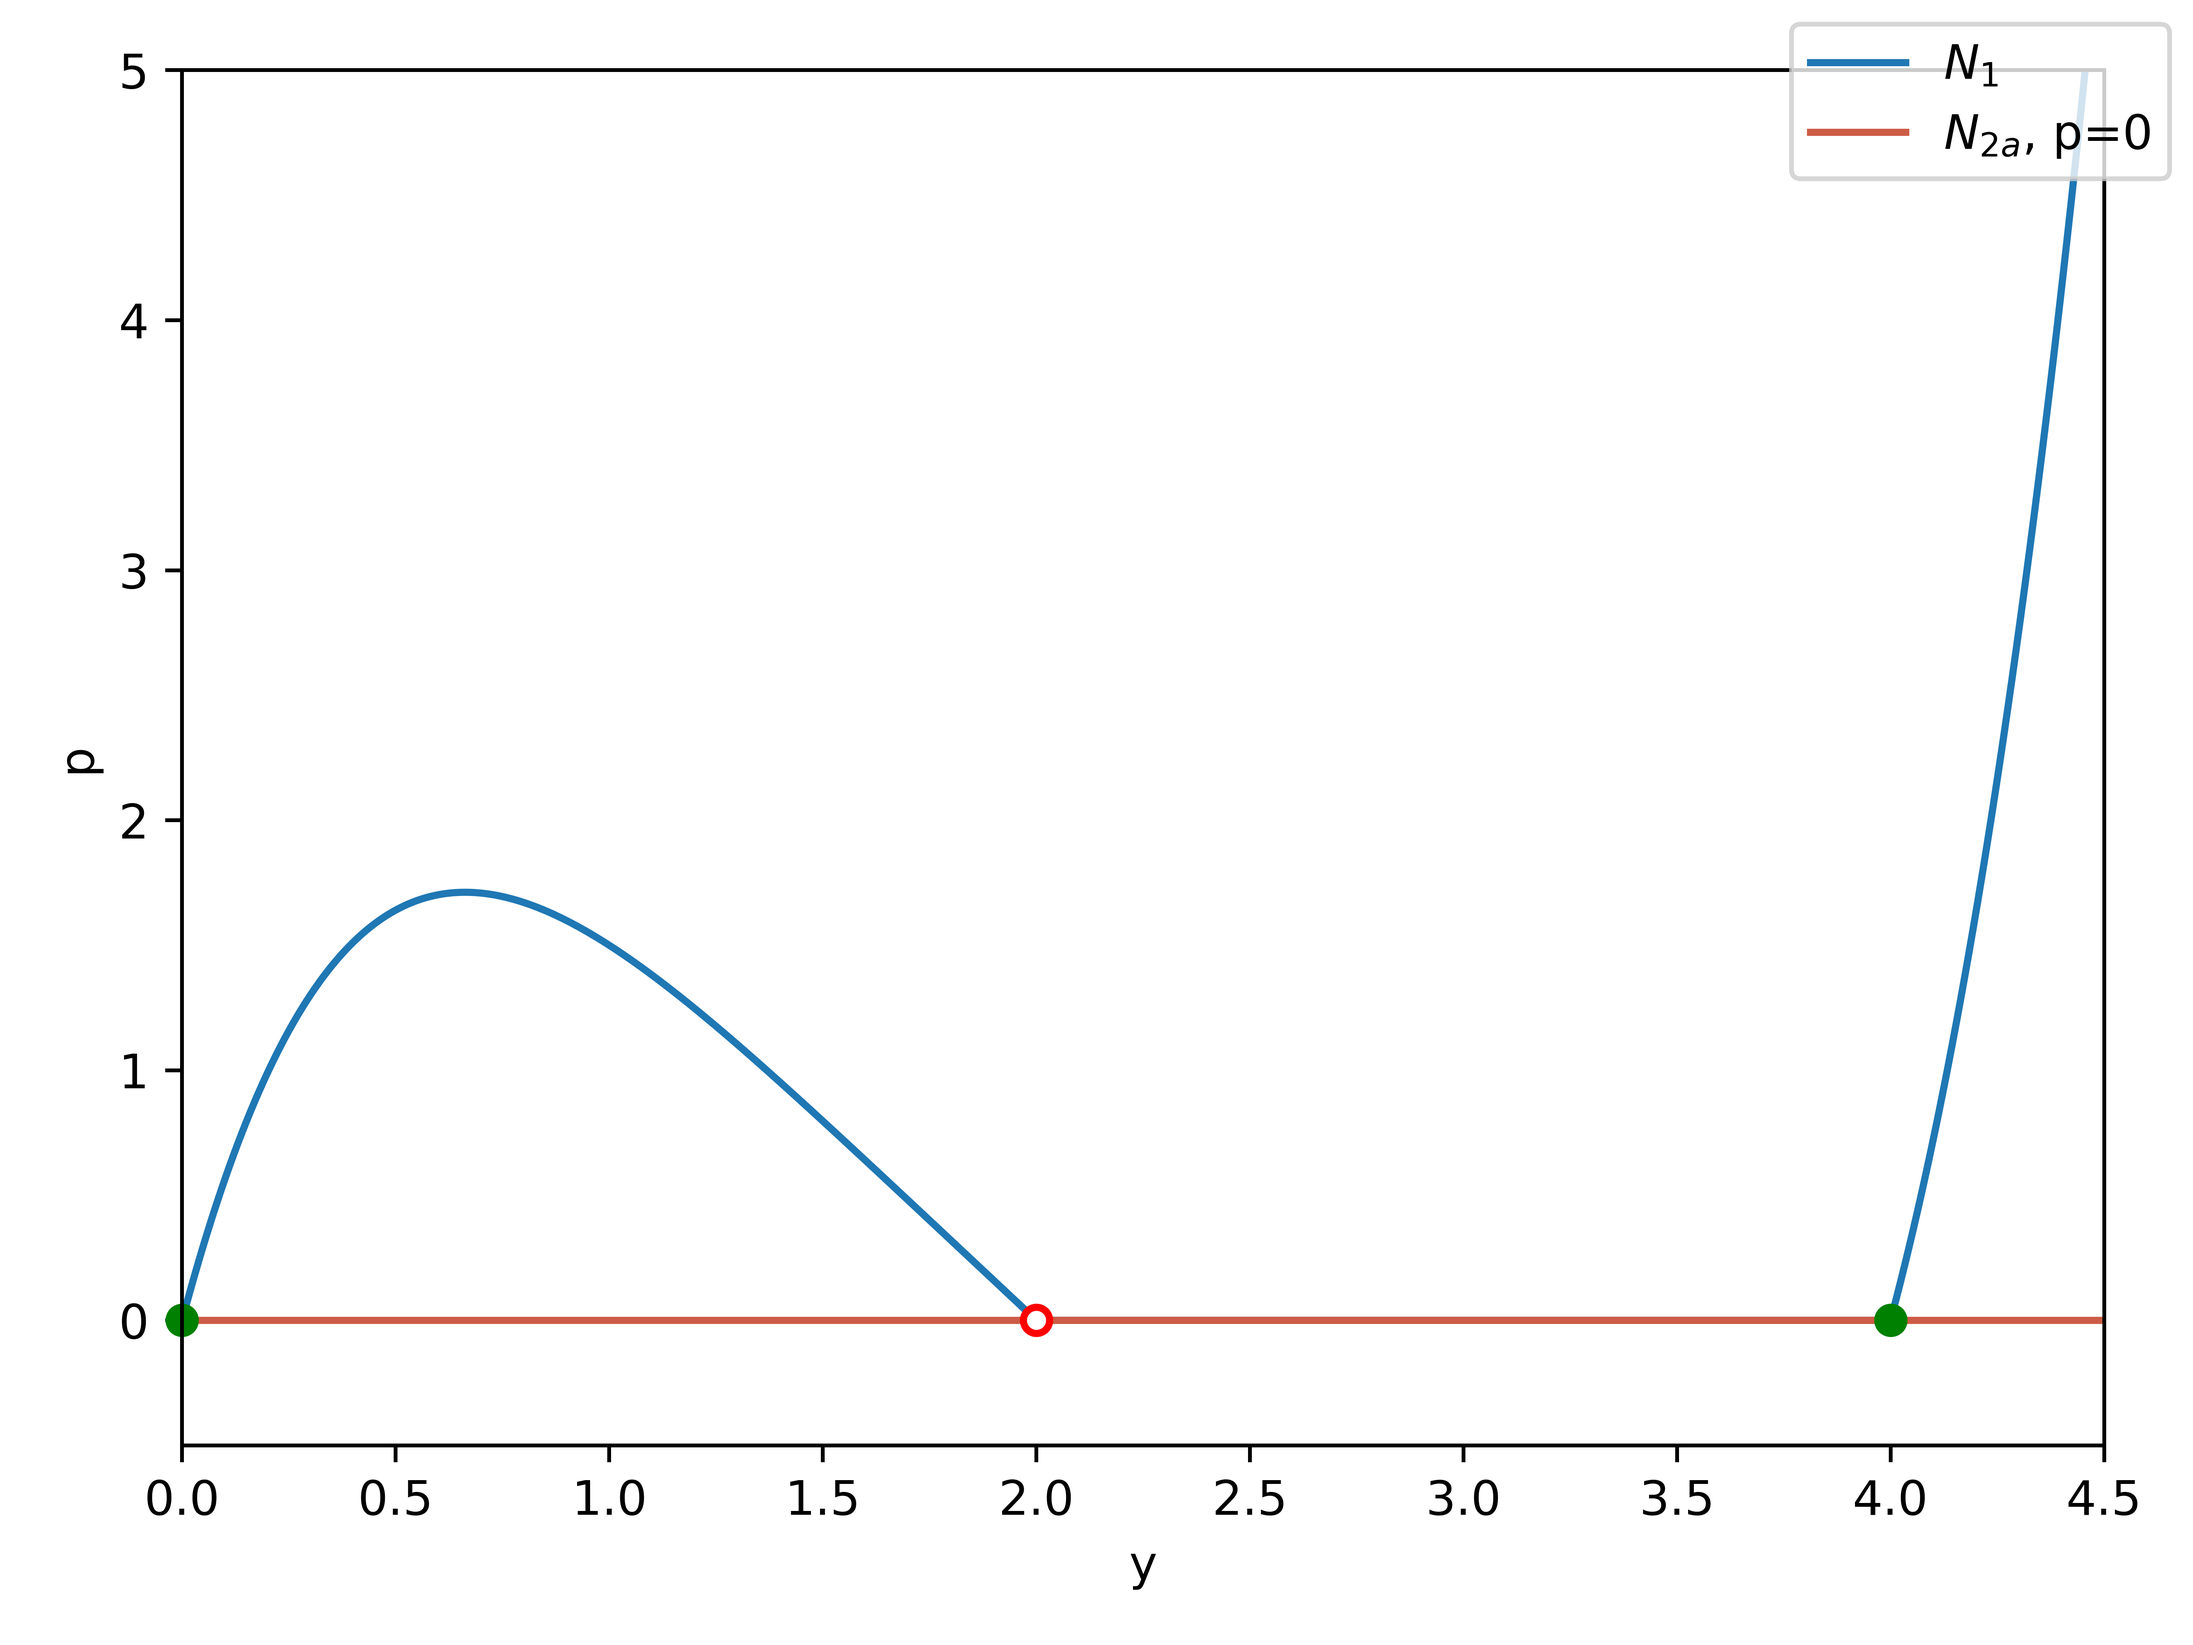
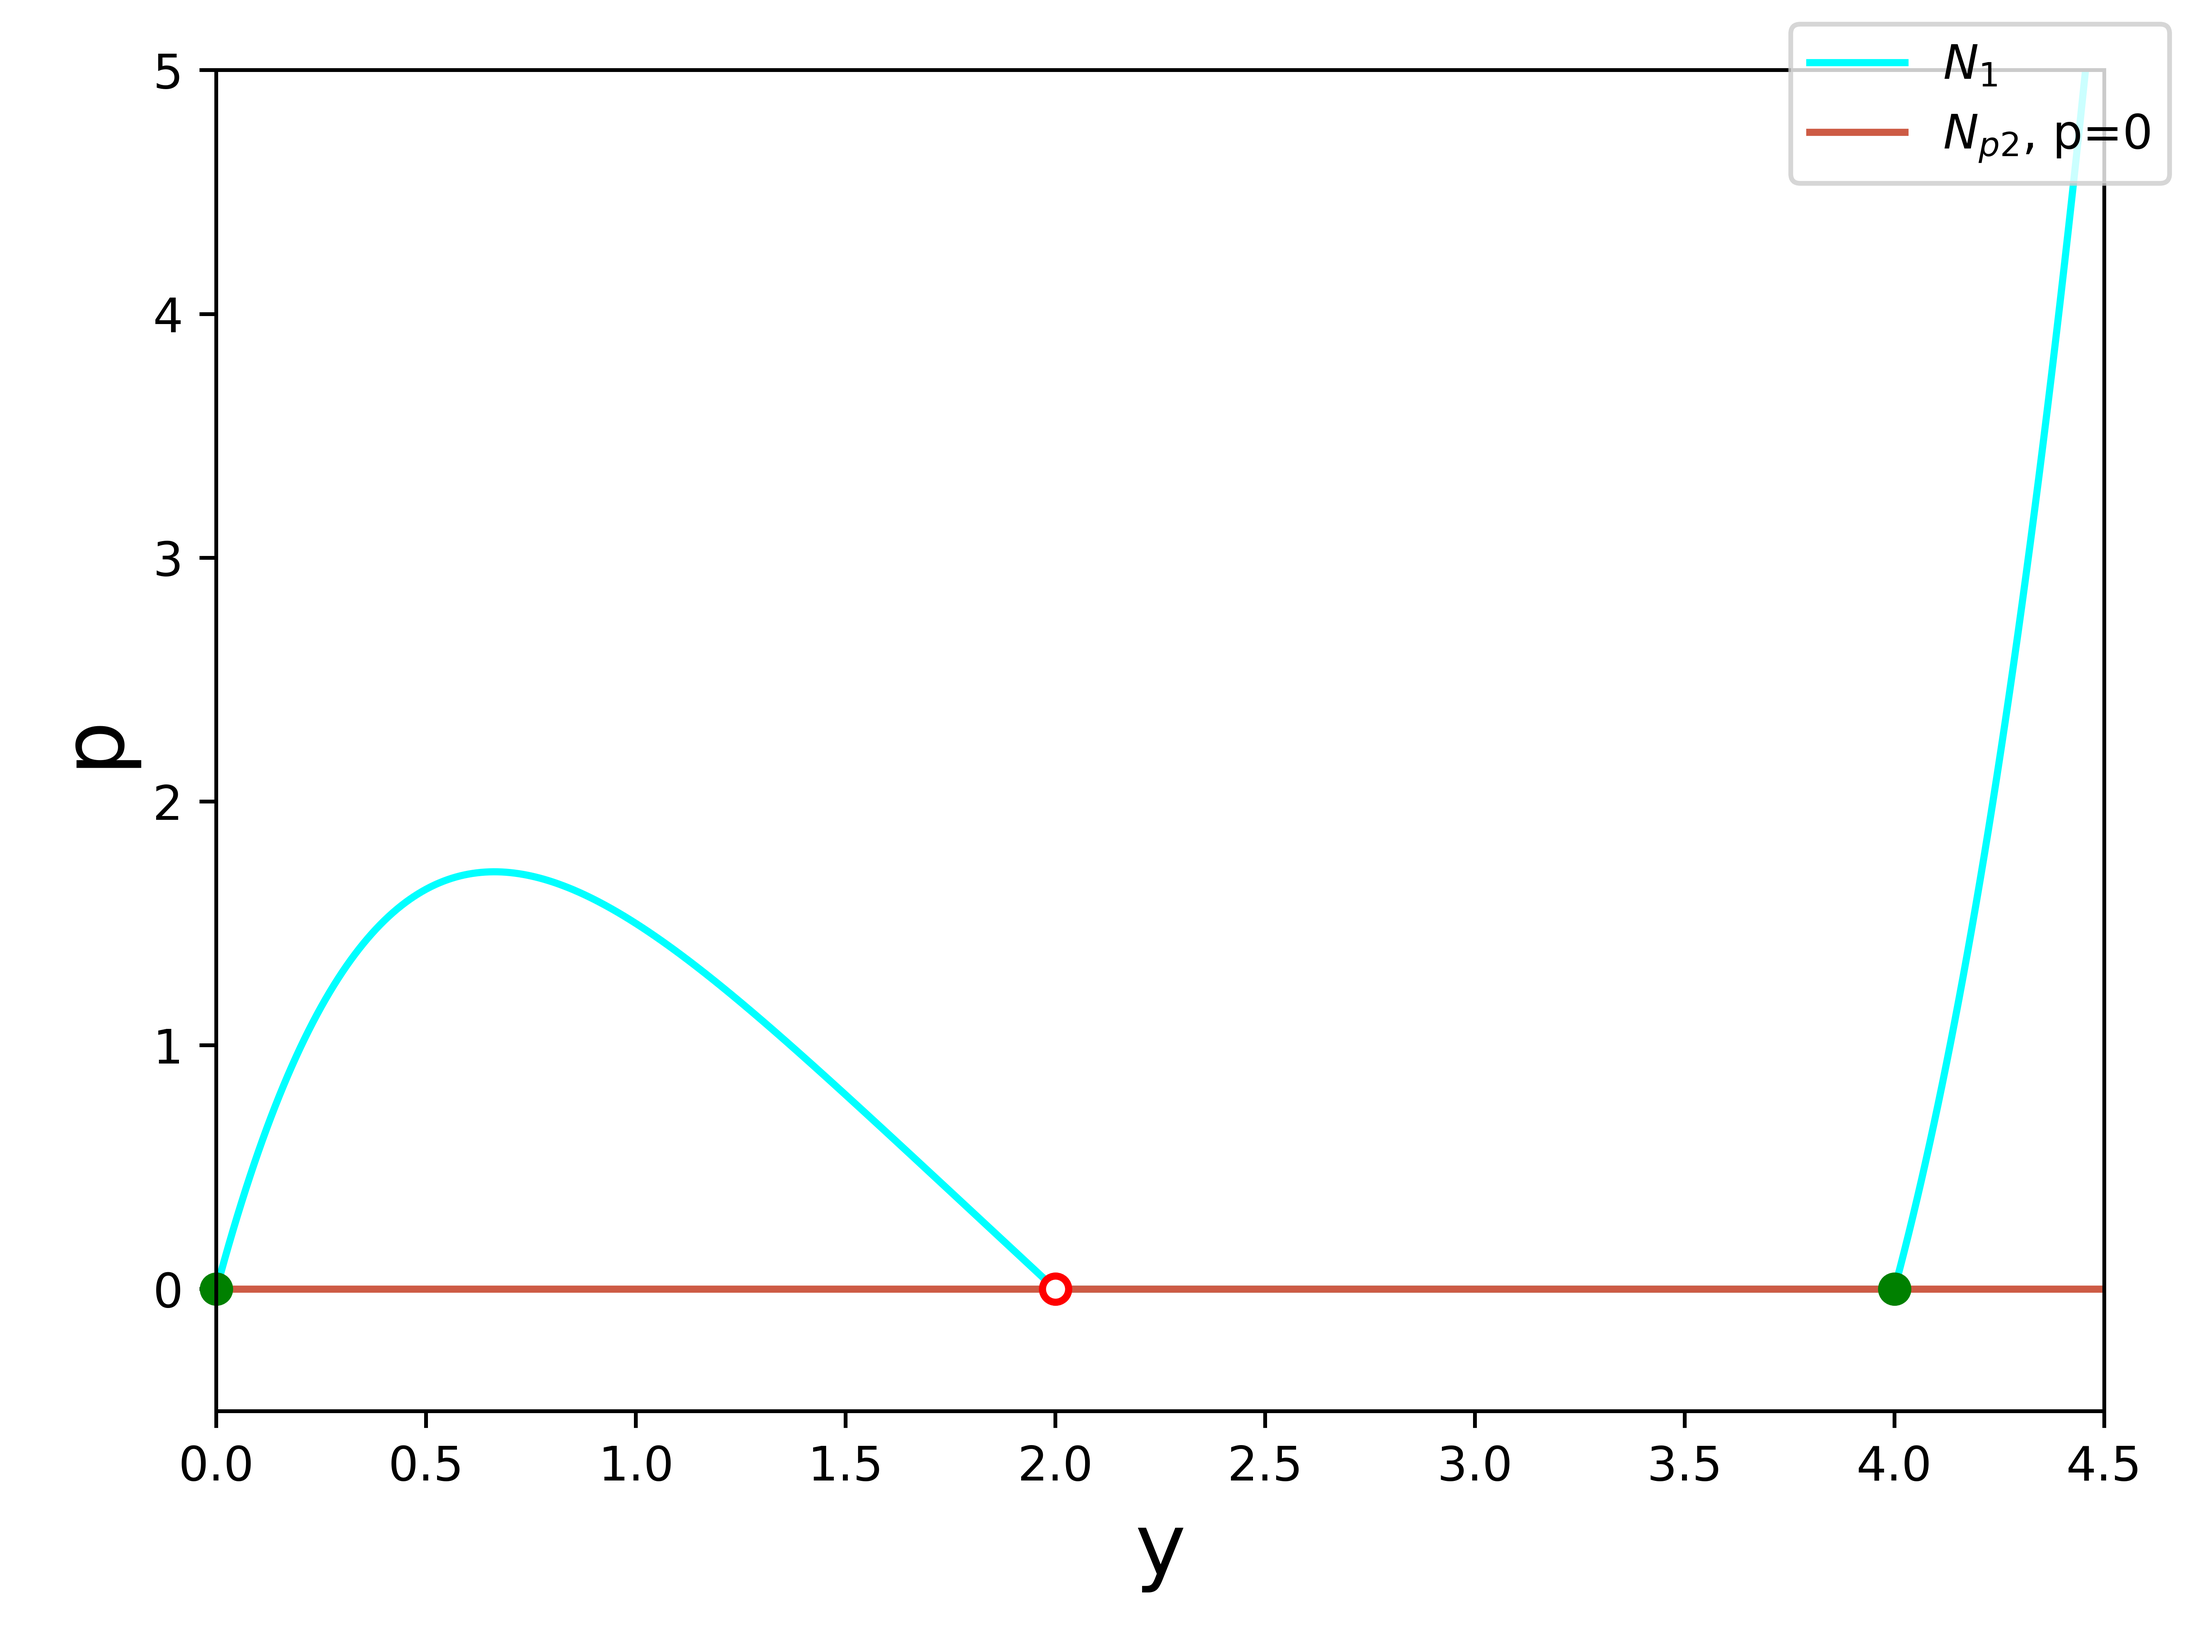
some more plottos

diff --git a/phaseplot.py b/phaseplot.py
@@ -26,26 +26,42 @@ if __name__ == '__main__':
     #full fig
     fig1 = plt.figure()
     sub1 = fig1.add_subplot(111)
-    sub1.plot(rane, n1(rane), label='$N_1$', color='aqua')
-    sub1.plot(rane, n2(rane, 0.5), label='$N_{2b}$, $\lambda = 0.5$', color='#FF7256')
-    sub1.plot(rane, n2(rane, 2), label='$N_{2b}$, $\lambda = 2$', color='#EE6A50')
-    sub1.plot(rane, n2(rane, 3), label='$N_{2b}$, $\lambda = 3$', color='#CD5B45')
-    sub1.plot(rane, n2(rane, 6), label='$N_{2b}$, $\lambda = 6$', color='brown')
+    sub1.plot(rane, n1(rane), label='$N_y$', color='aqua')
+    sub1.plot(rane, n2(rane, 0.5), label='$N_{p2}$, $\lambda = 0.5$', color='#FF7256')
+    sub1.plot(rane, n2(rane, 2), label='$N_{p2}$, $\lambda = 2$', color='#EE6A50')
+    sub1.plot(rane, n2(rane, 3), label='$N_{p2}$, $\lambda = 3$', color='#CD5B45')
+    sub1.plot(rane, n2(rane, 6), label='$N_{p2}$, $\lambda = 6$', color='brown')
     # sub1.plot(rane, [delta_x / beta for x in rane], ls='--', label='threshold for death')
     sub1.plot(rane, [1 for x in rane], ls='--', label='threshold for death', color='aquamarine')  # for better vis
-    sub1.set_xlabel('y')
-    sub1.set_ylabel('p')
+    sub1.set_xlabel('y', fontsize=18)
+    sub1.set_ylabel('p', fontsize=18)
     sub1.set_ylim((0, 8))
     sub1.set_xlim((0, 5.3))
     fig1.legend()
     fig1.tight_layout()
     fig1.savefig('phaseplotpnot0.png', dpi=900)
 
+    fignth = plt.figure()
+    subnth = fignth.add_subplot(111)
+    subnth.plot(rane, n1(rane), label='$N_y$', color='aqua')
+    subnth.plot(rane, n2(rane, 0.5), label='$N_{p2}$, $\lambda = 0.5$', color='#FF7256')
+    subnth.plot(rane, n2(rane, 2), label='$N_{p2}$, $\lambda = 2$', color='#EE6A50')
+    subnth.plot(rane, n2(rane, 3), label='$N_{p2}$, $\lambda = 3$', color='#CD5B45')
+    subnth.plot(rane, n2(rane, 6), label='$N_{p2}$, $\lambda = 6$', color='brown')
+    # snthb1.plot(rane, [delta_x / beta for x in rane], ls='--', label='threshold for death')
+    #subnth.plot(rane, [1 for x in rane], ls='--', label='threshold for death', color='aquamarine')  # for better vis
+    subnth.set_xlabel('y', fontsize=18)
+    subnth.set_ylabel('p', fontsize=18)
+    subnth.set_ylim((0, 8))
+    subnth.set_xlim((0, 5.3))
+    fignth.legend()
+    fignth.tight_layout()
+    fignth.savefig('phaseplotpnothresh.png', dpi=900)
     #for p = 0
     fig2 = plt.figure()
     sub21 = fig2.add_subplot(111)
-    sub21.plot(rane, [n1(x) if n1(x) >= 0 else 0 for x in rane], label=r'$N_1$')
-    sub21.plot(rane, np.zeros(len(rane)), label=r'$N_{2a}$, p=0', color='#CD5B45')
+    sub21.plot(rane, [n1(x) if n1(x) >= 0 else 0 for x in rane], label=r'$N_1$', color='aqua')
+    sub21.plot(rane, np.zeros(len(rane)), label=r'$N_{p2}$, p=0', color='#CD5B45')
     sub21.plot([0, 4], [0, 0], 'o', color='green', clip_on=False)
     sub21.plot(2, 0, 'o', color='red')
     sub21.plot(2, 0, '.', color='white')
@@ -60,10 +76,23 @@ if __name__ == '__main__':
     # u = mu*Z + f_y2(X)
     # v = Z*(delta_x+lambd-kappa*X-beta*Z)
     # sub21.quiver(X, Z, u, v)
-    sub21.set_xlabel('y')
-    sub21.set_ylabel('p')
+    sub21.set_xlabel('y', fontsize=18)
+    sub21.set_ylabel('p', fontsize=18)
     sub21.set_ylim((ysmall, ybig))
     sub21.set_xlim((xsmall, xbig))
     fig2.legend()
     fig2.tight_layout()
     fig2.savefig('phaseplot0.png', dpi=900)
+
+    justNy = plt.figure()
+    ny1 = justNy.add_subplot(111)
+    ny1.plot(rane, n1(rane), label='$N_y$', color='aqua')
+    ny1.set_xlabel('y', fontsize=18)
+    ny1.set_ylabel('p', fontsize=18)
+    justNy.legend()
+    justNy.tight_layout()
+    ny1.set_ylim((ysmall, ybig))
+    ny1.set_xlim((xsmall, xbig))
+    justNy.savefig('justny.png', dpi=900)
+
+    
